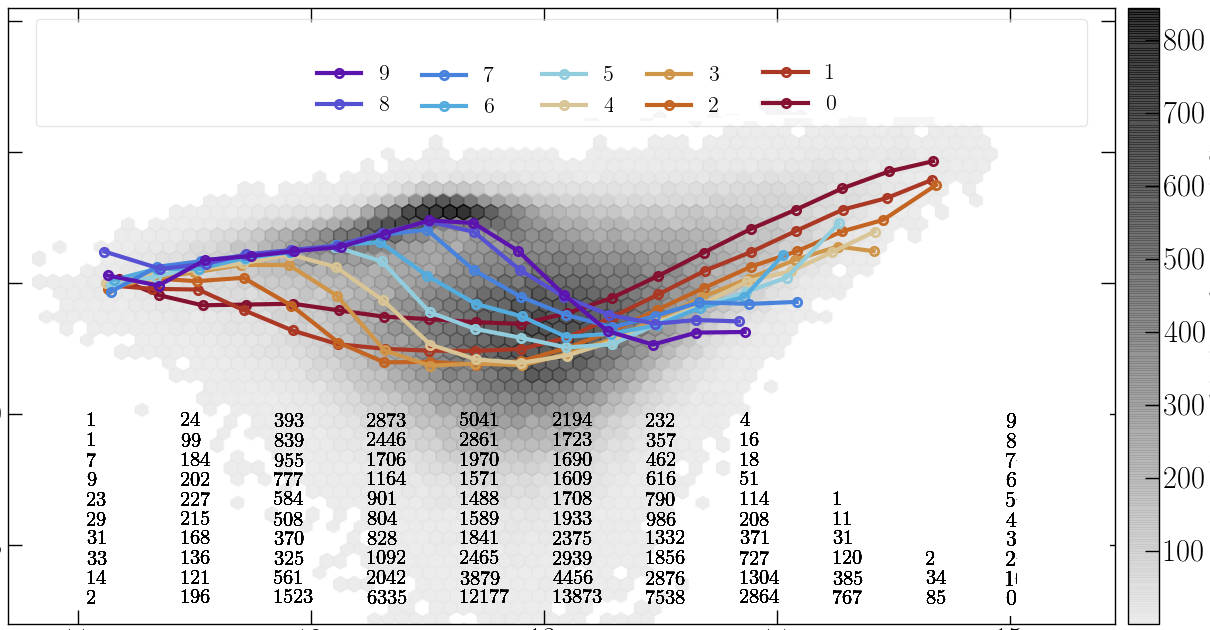
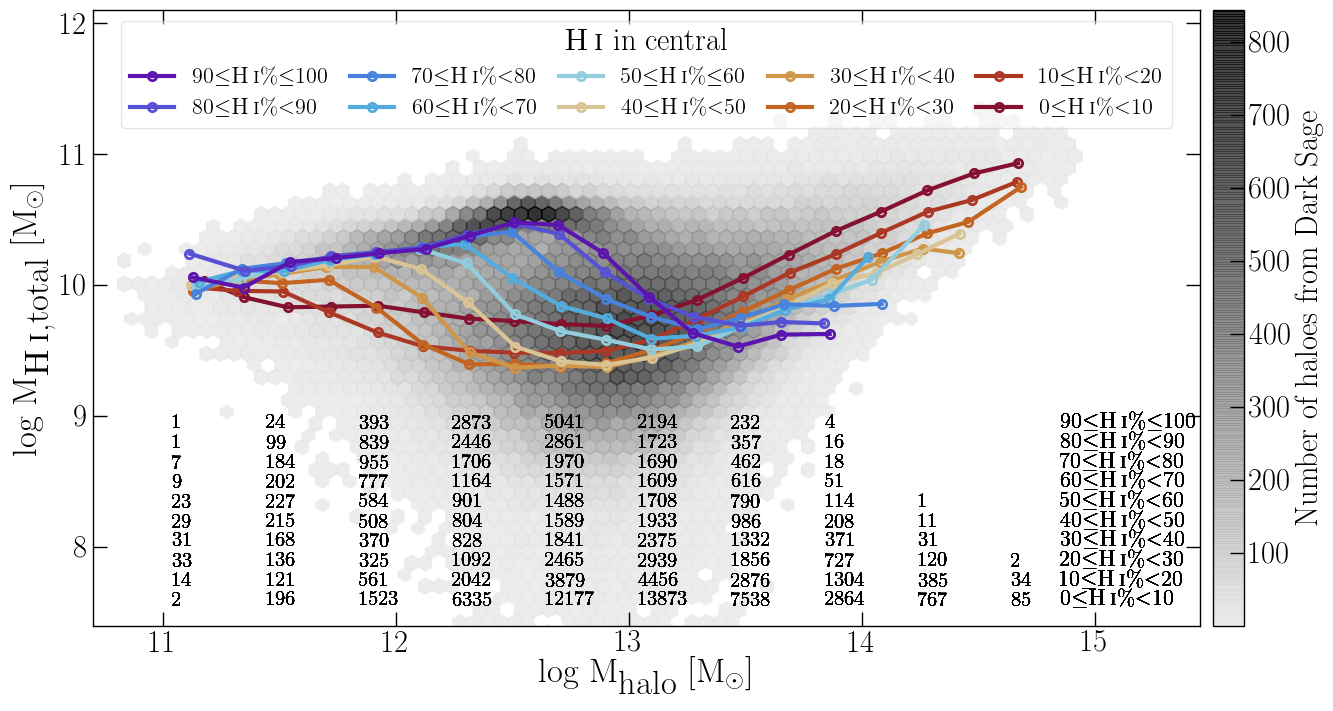
update viz

diff --git a/astro_visualisation.html b/astro_visualisation.html
@@ -43,21 +43,19 @@
 
 								<!-- Image -->
 								<h3></h3>
-								<b>Figure below:</b><p1> The solid lines show the running median. The colour (red--yellow--purple) of the median lines show samples of central galaxies. The numbers at the bottom show the number of centrals in each bin for each median line as indicated in the right bottom corner. The hexagons in the background show the 2D density distribution of haloes (Details removed since the work is in preparation for publication). </p1>
+								<b>Figure below:</b><p1> The solid lines show the running median. The colour (red--yellow--purple) of the median lines show samples of central galaxies. The numbers at the bottom show the number of centrals in each bin for each median line as indicated in the right bottom corner. The hexagons in the background show the 2D density distribution of haloes. Obtained using Dark Sage semi-analytic model and MultiDark simulation. </p1>
 								<span class="image fit"><img src="images/Test.png" alt="" /></span>
 
 								<b>Figure below:</b><p1> The HI emission in the HIPASSJ0258-74 group. The HI emission is shown by the contours overlaid on the optical DSS B-band image. The lowest shown HI column density 3x10<sup>19</sup> cm<sup>-2</sup>.The other HI column density contours are: 8, 16, 32 and 64, 75 and 90x10<sup>19</sup> cm<sup>-2</sup>. The S3 galaxy is shown as shaded contours (between 3 and 6x10<sup>19</sup> cm<sup>-2</sup>) to enhance its visibility. The S4 galaxy is not detected in HI. \textbf{Right:} The velocity field of the J0258-74 group in the limit from 4500 to 5100 km s<sup>-1</sup>. The group members are marked (S1-S4) as well as the lowest HI column density (3x10<sup>19</sup> cm<sup>-2</sup>). The dashed line show the position of the S3 galaxy to enhance its visibility. The synthesized beam is shown in the bottom left corner, and the scale bar in the bottom right corner shows 50 kpc at the group distance (Dzudzar et al. submitted). </p1>
 								<span class="image fit"><img src="images/J0258-74.png" alt="" /></span>
 
-								<b>Figure below:</b><p1> Left: The DECam g, r, i colour composite image of ESO156-G029. The blue star forming regions are mostly located in the disc outskirts. Faint stellar streams are visible in the north-west of the galaxy. Right: 3×3 degree region centered on Abell 3193. ESO156-G029 is marked with the red diamond. The cluster galaxies are shown as circles coloured based on their Ks magnitude; shown galaxies are within the search radius (84 arcmin) from the cluster centre and within the velocity range of 9720–11690 km s<sup>-1</sup>. See details in <a href="https://ui.adsabs.harvard.edu/abs/2019MNRAS.490L...6D/abstract" target="_blank">Dzudzar et al. 2019b</a>.
+								
  </p1>
-								<span class="image fit"><img src="images/ESO_cluster.png" alt="" /></span>
 											
 								<h3>Various examples:</h3>
 											<div class="box alt">
 												<div class="row gtr-50 gtr-uniform">
 															<!-- Break -->
-													<div class="col-4"><span class="image fit"><img src="images/Sample.png" alt="" /> </span> </div>
 
 													<div class="col-4"><span class="image fit"><img src="images/HI_in_central_cont.png" alt="" /></span></div>
 

diff --git a/research.html b/research.html
@@ -75,7 +75,6 @@
 
 									<p> </p>
 
-
 									<hr class="major" />
 
 									<h2>Environmental processing </h2>
